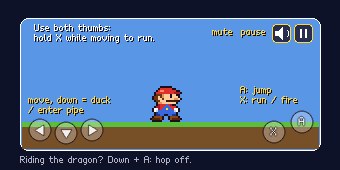
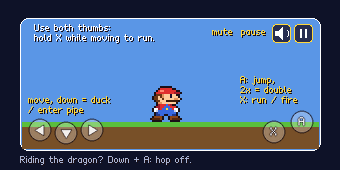
v0.11.0: Sprung-Hilfen (Doppelsprung, weniger Nachrutschen, Mindesthöhe), Mute-Anzeige im Sound-Menü
- player.gd: leichte Schwerkraft mind. 0,15 s (Tippen ≈ 2,9 Tiles),
  Bodenbremse 560, Landebremse ohne Richtungstaste, Luftsteuerung 340,
  ein Doppelsprung (Settings "Double jump", Standard an) mit Wölkchen
  (jump_puff.gd) und Sound jump2
- 1-4: Säulen über der ersten Lavagrube 3 statt 2 breit
- Sound-Menü: Mute-Knopf wechselte die Beschriftung nicht (Lambda fing die
  noch leere Variable ein); Snd.mute_changed hält Menü + HUD synchron
- Hilfeseiten Steuerung/Touch: Doppelsprung
- Playtests jumpfeel, mutebtn

Changed region(s): [[0.7059, 0.4412, 0.8824, 0.5588]]

diff --git a/tools/gen_help.py b/tools/gen_help.py
@@ -122,8 +122,9 @@ def page_controls():
     x = key(d, 8, y, "Space")
     x = key(d, x, y, "Z")
     x = arrow_key(d, x, y, "up")
-    text(d, (x + 4, y + 3), "jump (hold = higher)")
-    y += 17
+    text(d, (x + 4, y + 1), "jump (hold = higher,")
+    text(d, (x + 4, y + 10), "again in the air = double)", fill=DIM)
+    y += 23
     x = key(d, 8, y, "Shift")
     x = key(d, x, y, "X")
     x = key(d, x, y, "J")
@@ -150,7 +151,8 @@ def page_controls():
     round_btn(d, 216, 72, "X", (60, 90, 200, 255))
     round_btn(d, 244, 72, "B", (200, 60, 60, 255))
     round_btn(d, 230, 86, "A", (220, 170, 40, 255))
-    text(d, (264, 64), "A B: jump")
+    text(d, (264, 56), "A B: jump,")
+    text(d, (264, 66), "2x = double", fill=DIM)
     text(d, (264, 76), "X Y: run,")
     text(d, (264, 86), "fire, tongue")
     d.rounded_rectangle((212, 110, 234, 118), 4, fill=(60, 66, 96, 255), outline=KEY_EDGE)
@@ -186,7 +188,8 @@ def page_touch():
     text(d, (28, 96), "move, down = duck", fill=GOLD)
     text(d, (28, 106), "/ enter pipe", fill=GOLD)
     text(d, (240, 96), "X: run / fire", fill=GOLD)
-    text(d, (240, 86), "A: jump", fill=GOLD)
+    text(d, (240, 76), "A: jump,", fill=GOLD)
+    text(d, (240, 86), "2x = double", fill=GOLD)
     text(d, (212, 28), "mute  pause", fill=GOLD)
     text(d, (34, 24), "Use both thumbs:", fill=WHITE)
     text(d, (34, 34), "hold X while moving to run.", fill=WHITE)

diff --git a/tools/gen_audio.py b/tools/gen_audio.py
@@ -211,6 +211,9 @@ def sfx():
     S["hurry"] = cat(*hurry)
     S["pause"] = cat(tone("pulse", freq("E6"), 0.06, 0.5, s=0.8, r=0.01, vol=0.35), silence(0.03),
                      tone("pulse", freq("C6"), 0.06, 0.5, s=0.8, r=0.01, vol=0.35))
+    # double jump: two quick rising chirps (no noise -> rng order unchanged)
+    S["jump2"] = cat(tone("pulse", 520, 0.06, 0.125, f_end=1040, s=0.7, r=0.01, vol=0.45),
+                     tone("pulse", 780, 0.12, 0.125, f_end=1560, d=0.05, s=0.5, r=0.04, vol=0.45))
     for k, x in S.items():
         write_wav(os.path.join(SND, k + ".wav"), norm(x, 0.85))
     print("  %d sound effects -> assets/sounds/" % len(S))

diff --git a/tools/make_levels.py b/tools/make_levels.py
@@ -1196,8 +1196,13 @@ def castle_level(world, lid):
     L.blocks(6, 13, "?M?")
     # A: lava pit with bubbles and stone pillars
     L.lava(12, 23)
-    L.fill(15, 16, 14, ROWS - 1, "#")
-    L.fill(20, 21, 13 if hard else 14, ROWS - 1, "#")
+    if world == 1:
+        # first castle: 3-wide pillars, 2-wide gaps (v0.11, player feedback)
+        L.fill(14, 16, 14, ROWS - 1, "#")
+        L.fill(19, 21, 14, ROWS - 1, "#")
+    else:
+        L.fill(15, 16, 14, ROWS - 1, "#")
+        L.fill(20, 21, 13 if hard else 14, ROWS - 1, "#")
     for c in (13, 18, 23) if world > 1 else (13, 18):
         L.set(c, GROUND + 1, "b")
     L.coin_arc(12, 10, 12)

diff --git a/CLAUDE.md b/CLAUDE.md
@@ -76,6 +76,18 @@ Sprungtaste gehalten und aufwärts, sonst 1400; Coyote 0,08 s, Sprungpuffer
 0,12 s. Ergebnis: Stand-Sprung ≈ 4,1 Tiles, Renn-Sprung ≈ 5,7 Tiles hoch;
 Weite ≈ 4,4 (gehend) / ≈ 7,8 Tiles (rennend) — Level-Design danach richten
 (z. B. 4er-Röhren sind aus dem Stand knapp machbar).
+**Sprung-Hilfen (v0.11, Nutzerwunsch „auch alte Männer sollen es
+schaffen“)**: die leichte Schwerkraft gilt mindestens `JUMP_MIN_HOLD` =
+0,15 s, auch wenn die Taste sofort losgelassen wird (kurzes Antippen ≈
+2,9 Tiles statt 1,6). Bodenbremse 560 (vorher 280), Gegenlenken 900,
+Aufsetzen ohne Richtungstaste halbiert das Tempo (`LAND_BRAKE`) → nach
+der Landung rutscht der Held nur noch 1–5 px nach (Eis bleibt glatt:
+`DECEL_ICE` 80). Luftsteuerung 340, Luftbremse ohne Richtung 130.
+**Doppelsprung**: in der Luft einmal erneut springen (235 px/s, gleiche
+Halte-Logik; Stampfen füllt ihn wieder auf) — Wölkchen `jump_puff.gd`,
+Sound `jump2`; abschaltbar in Settings „Double jump“ (Standard an).
+Gemessen (`playtest jumpfeel`): Tipp 2,9 / gehalten 3,9 / doppelt getippt
+5,2 / doppelt gehalten 6,3 Tiles.
 Ursprung JEDER Figur = Füße (unten Mitte); Sprite-Offset = −Zellhöhe/2.
 Kopfstoß wählt den Block, dessen Mitte dem Spieler am nächsten ist.
 Klein→Groß (Pilz), Groß/Feuer→Feuer (Blume); Treffer: Feuer→Groß→Klein→Tod
@@ -251,7 +263,9 @@ Nintendo-Themen. Loops werden mit umgeklapptem Nachhall gerendert (nahtlos);
   Eingaben per `Input.action_press()` und speichert Screenshots + Zustands-
   zeilen. Szenarien: basic, powerup, stomp, pipe, flag, dino, title, fire,
   star, gameover, dinohit, checkpoint, levels, card, ridebig, pause, worlds,
-  turtle (Stampfen/Kick/Kombo/rote Kante), exitpipe, ice.
+  turtle (Stampfen/Kick/Kombo/rote Kante), exitpipe, ice, jumpfeel
+  (Sprunghöhen, Nachrutschen, Säulen in 1-4), mutebtn (Mute-Anzeige im
+  Sound-Menü).
   `godot --path . --script res://tools/playtest.gd -- <szenario> <ordner>`
   — schneller als der MCP-Editor-Weg und ohne offenen Editor nutzbar.
 - `build.sh`: Editor-Check prüft nur echte `godot`-Prozesse (`pgrep -x`),

diff --git a/TODO.md b/TODO.md
@@ -7,15 +7,24 @@ Git-Log.
 
 ## Offen
 
+- [ ] Neue Welt Wolken/Himmel (Nutzer 2026-09-27: freigegeben).
+- [ ] Neue Welt Unterwasser (freigegeben).
+- [ ] Weitere Gegner (freigegeben).
+- [ ] Fallende/kippende Plattformen (freigegeben).
 - [ ] Boss-Balancing nach Spieltests (HP, Tempo, Angriffsrate der neuen
-      Varianten) — wartet auf Nutzer-Feedback.
-- [ ] Optional: weißer Hintergrund des Android-12-System-Splash (nur per
-      Gradle-Build änderbar).
-- [ ] Ideen: weitere Welten (z. B. Wolken/Himmel, Unterwasser), weitere
-      Gegner, Plattform-Varianten (fallende/kippende Plattformen).
+      Varianten) — Nutzer schaut sich die Bosskämpfe gerade an.
 
 ## Erledigt
 
+- [x] v0.11.0 Sprung-Gefühl (Nutzer 2026-09-27: schmale Plattformen in 1-4
+      zu schwer): weniger Nachrutschen (Bodenbremse ×2, Landebremse),
+      Mindest-Sprunghöhe ~3 Tiles auch bei kurzem Tippen, Doppelsprung
+      (abschaltbar), Säulen in 1-4 3 breit statt 2.
+- [x] v0.11.0 Mute-Knopf im Sound-Menü wechselte die Anzeige nicht
+      (Lambda hatte die noch leere Button-Variable eingefangen); Anzeige
+      folgt jetzt `Snd.mute_changed` — auch HUD-Lautsprecher, M, Select.
+- [x] 2026-09-27 Weißer Android-12-System-Splash: Nutzer entscheidet
+      „Weg 1“ (reines Weiß, kein Gradle-Build) — so bleibt es.
 - [x] 2026-09-27 Android-System-Startbildschirm (vor dem Splash) einheitlich
       reines Weiß: `splash_screen/icon` = transparentes
       `assets/icon/android_splash_blank.png`, `branding_image` leer (Nutzer-
